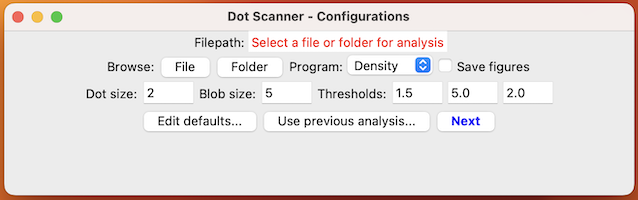
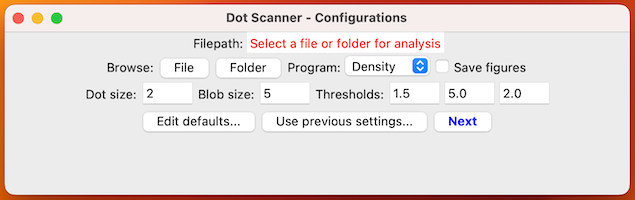
Updated README

diff --git a/README.md b/README.md
@@ -80,7 +80,7 @@ There are three thresholds that can be set to adjust the detection sensitivity f
 
 This opens a new window that allows the user to edit the default filepath or edit/reset the entire configuration file directly.
 
-#### Use previous analysis
+#### Use previous settings
 
 This opens a new window that allows the user to browse for a previous .txt analysis file to use to repeat analysis. Information on which settings are reused during re-analysis is included in the header of each analysis file. There are two main scenarios for using this feature:
 
